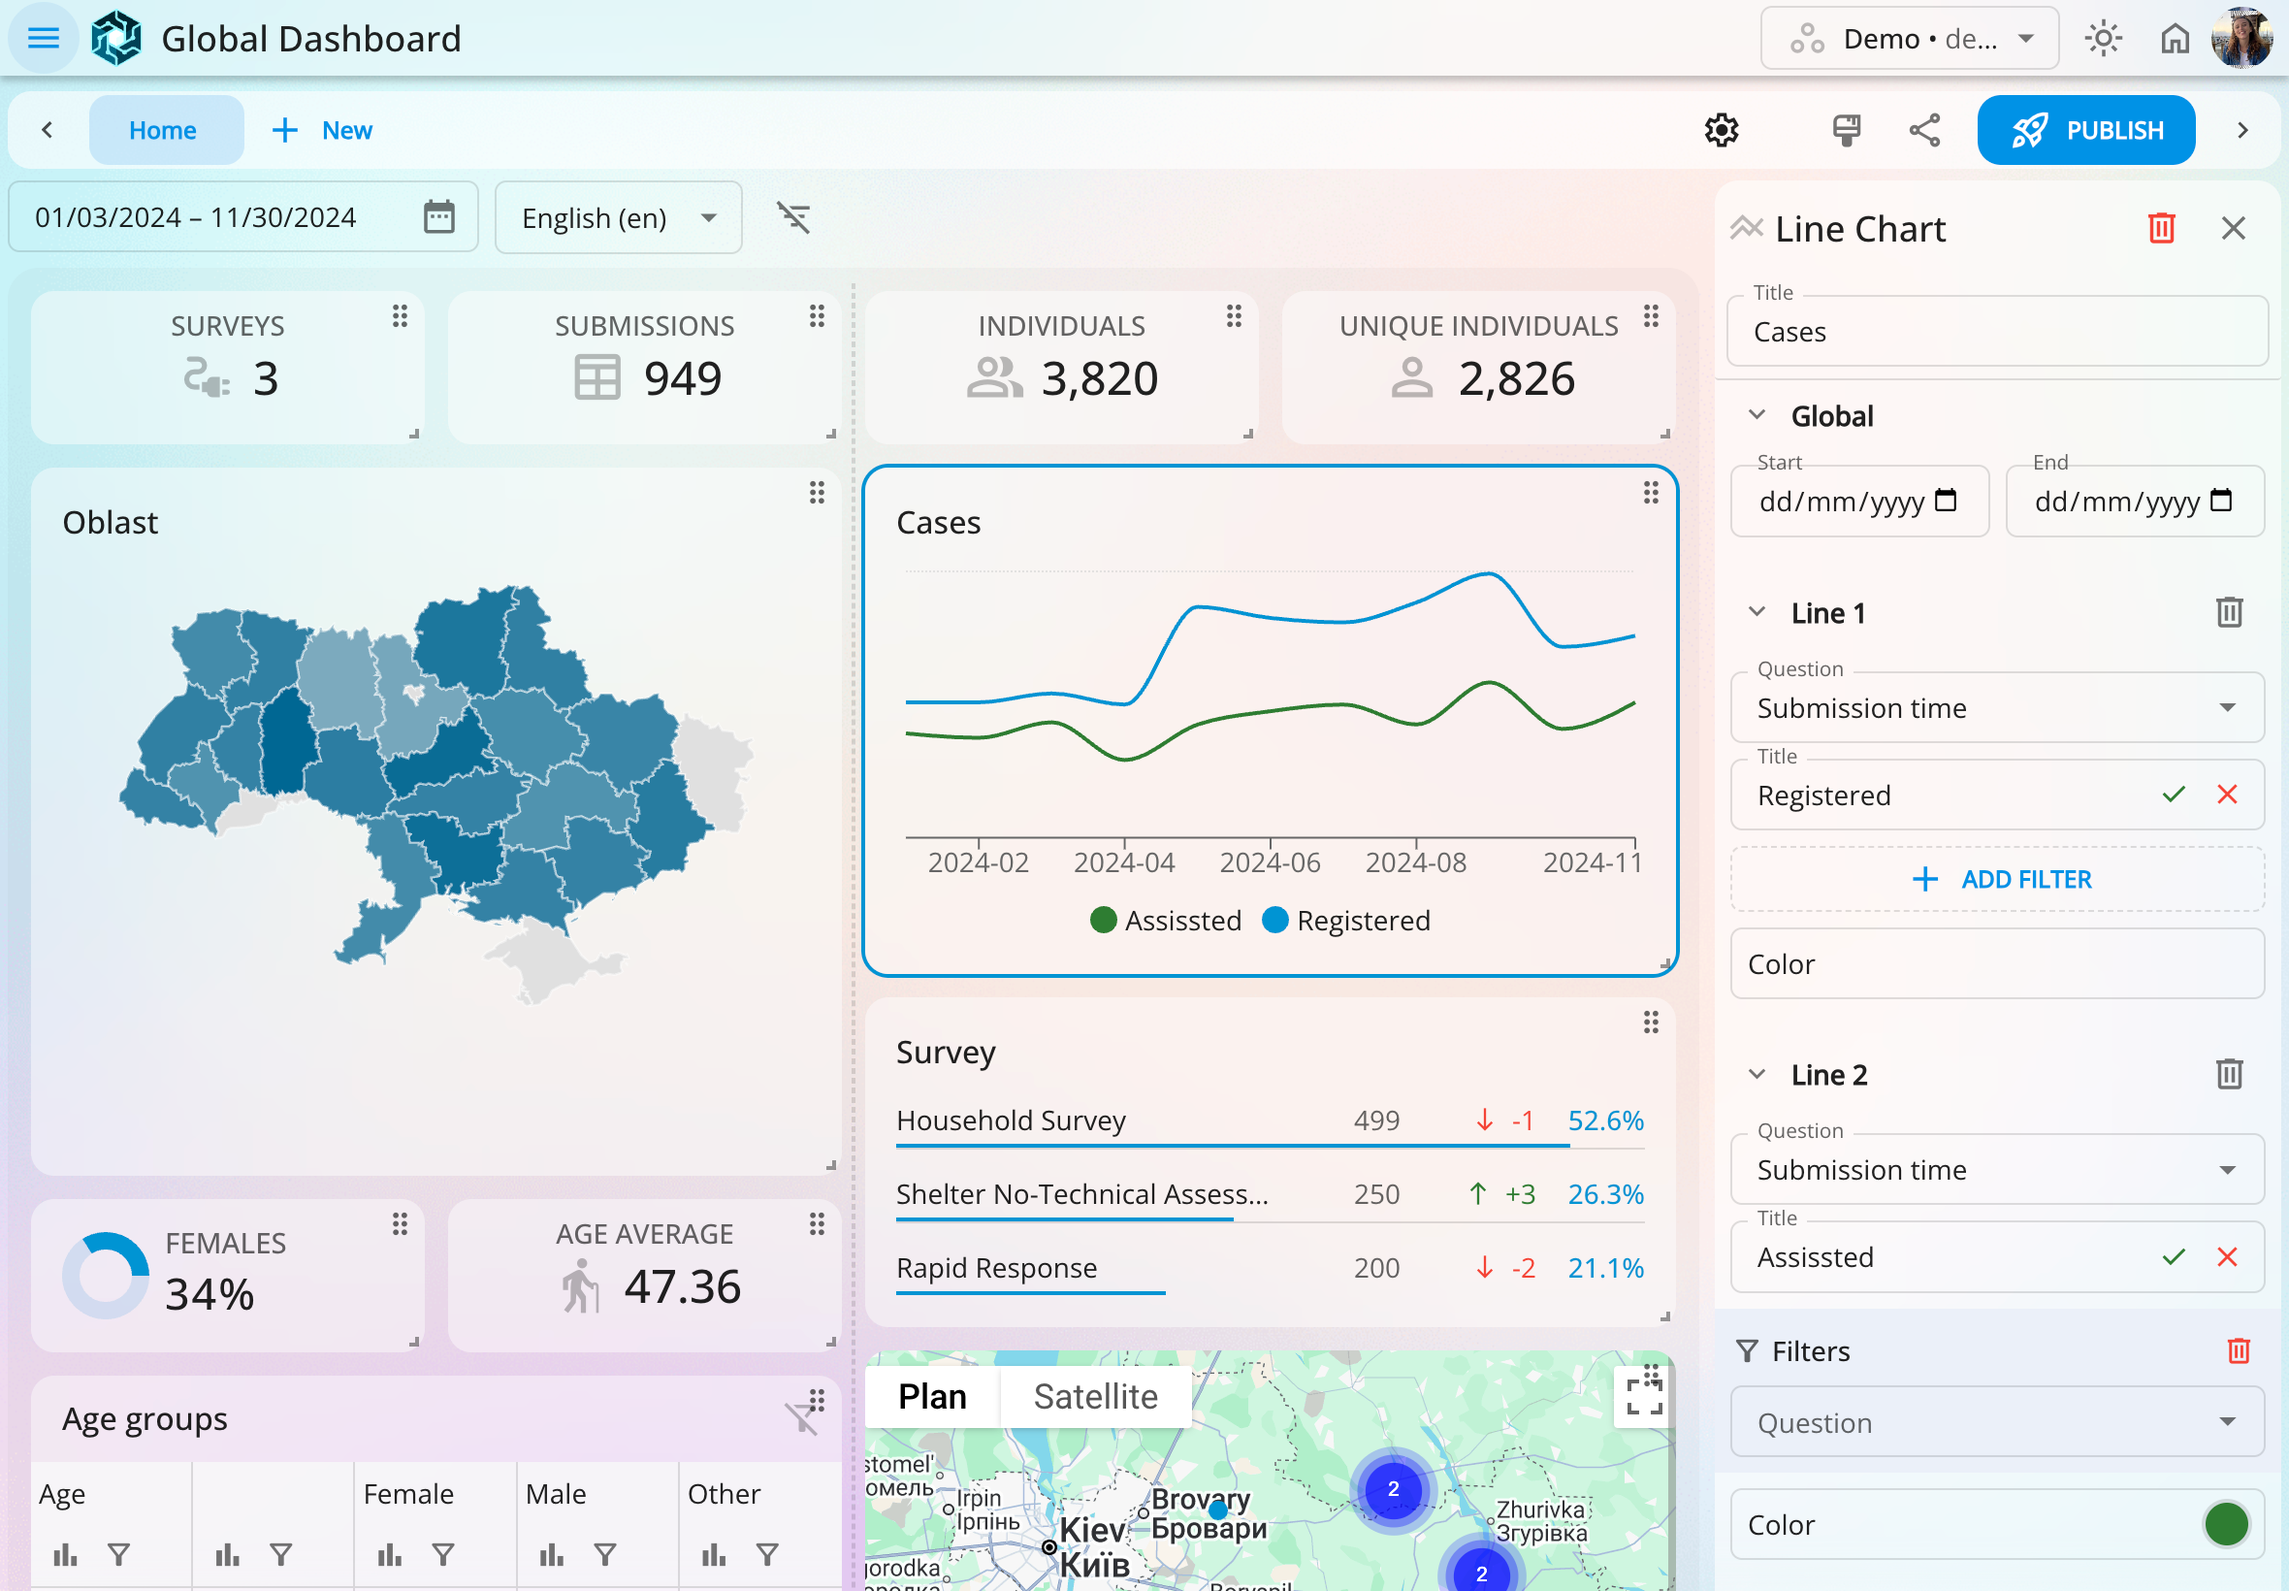
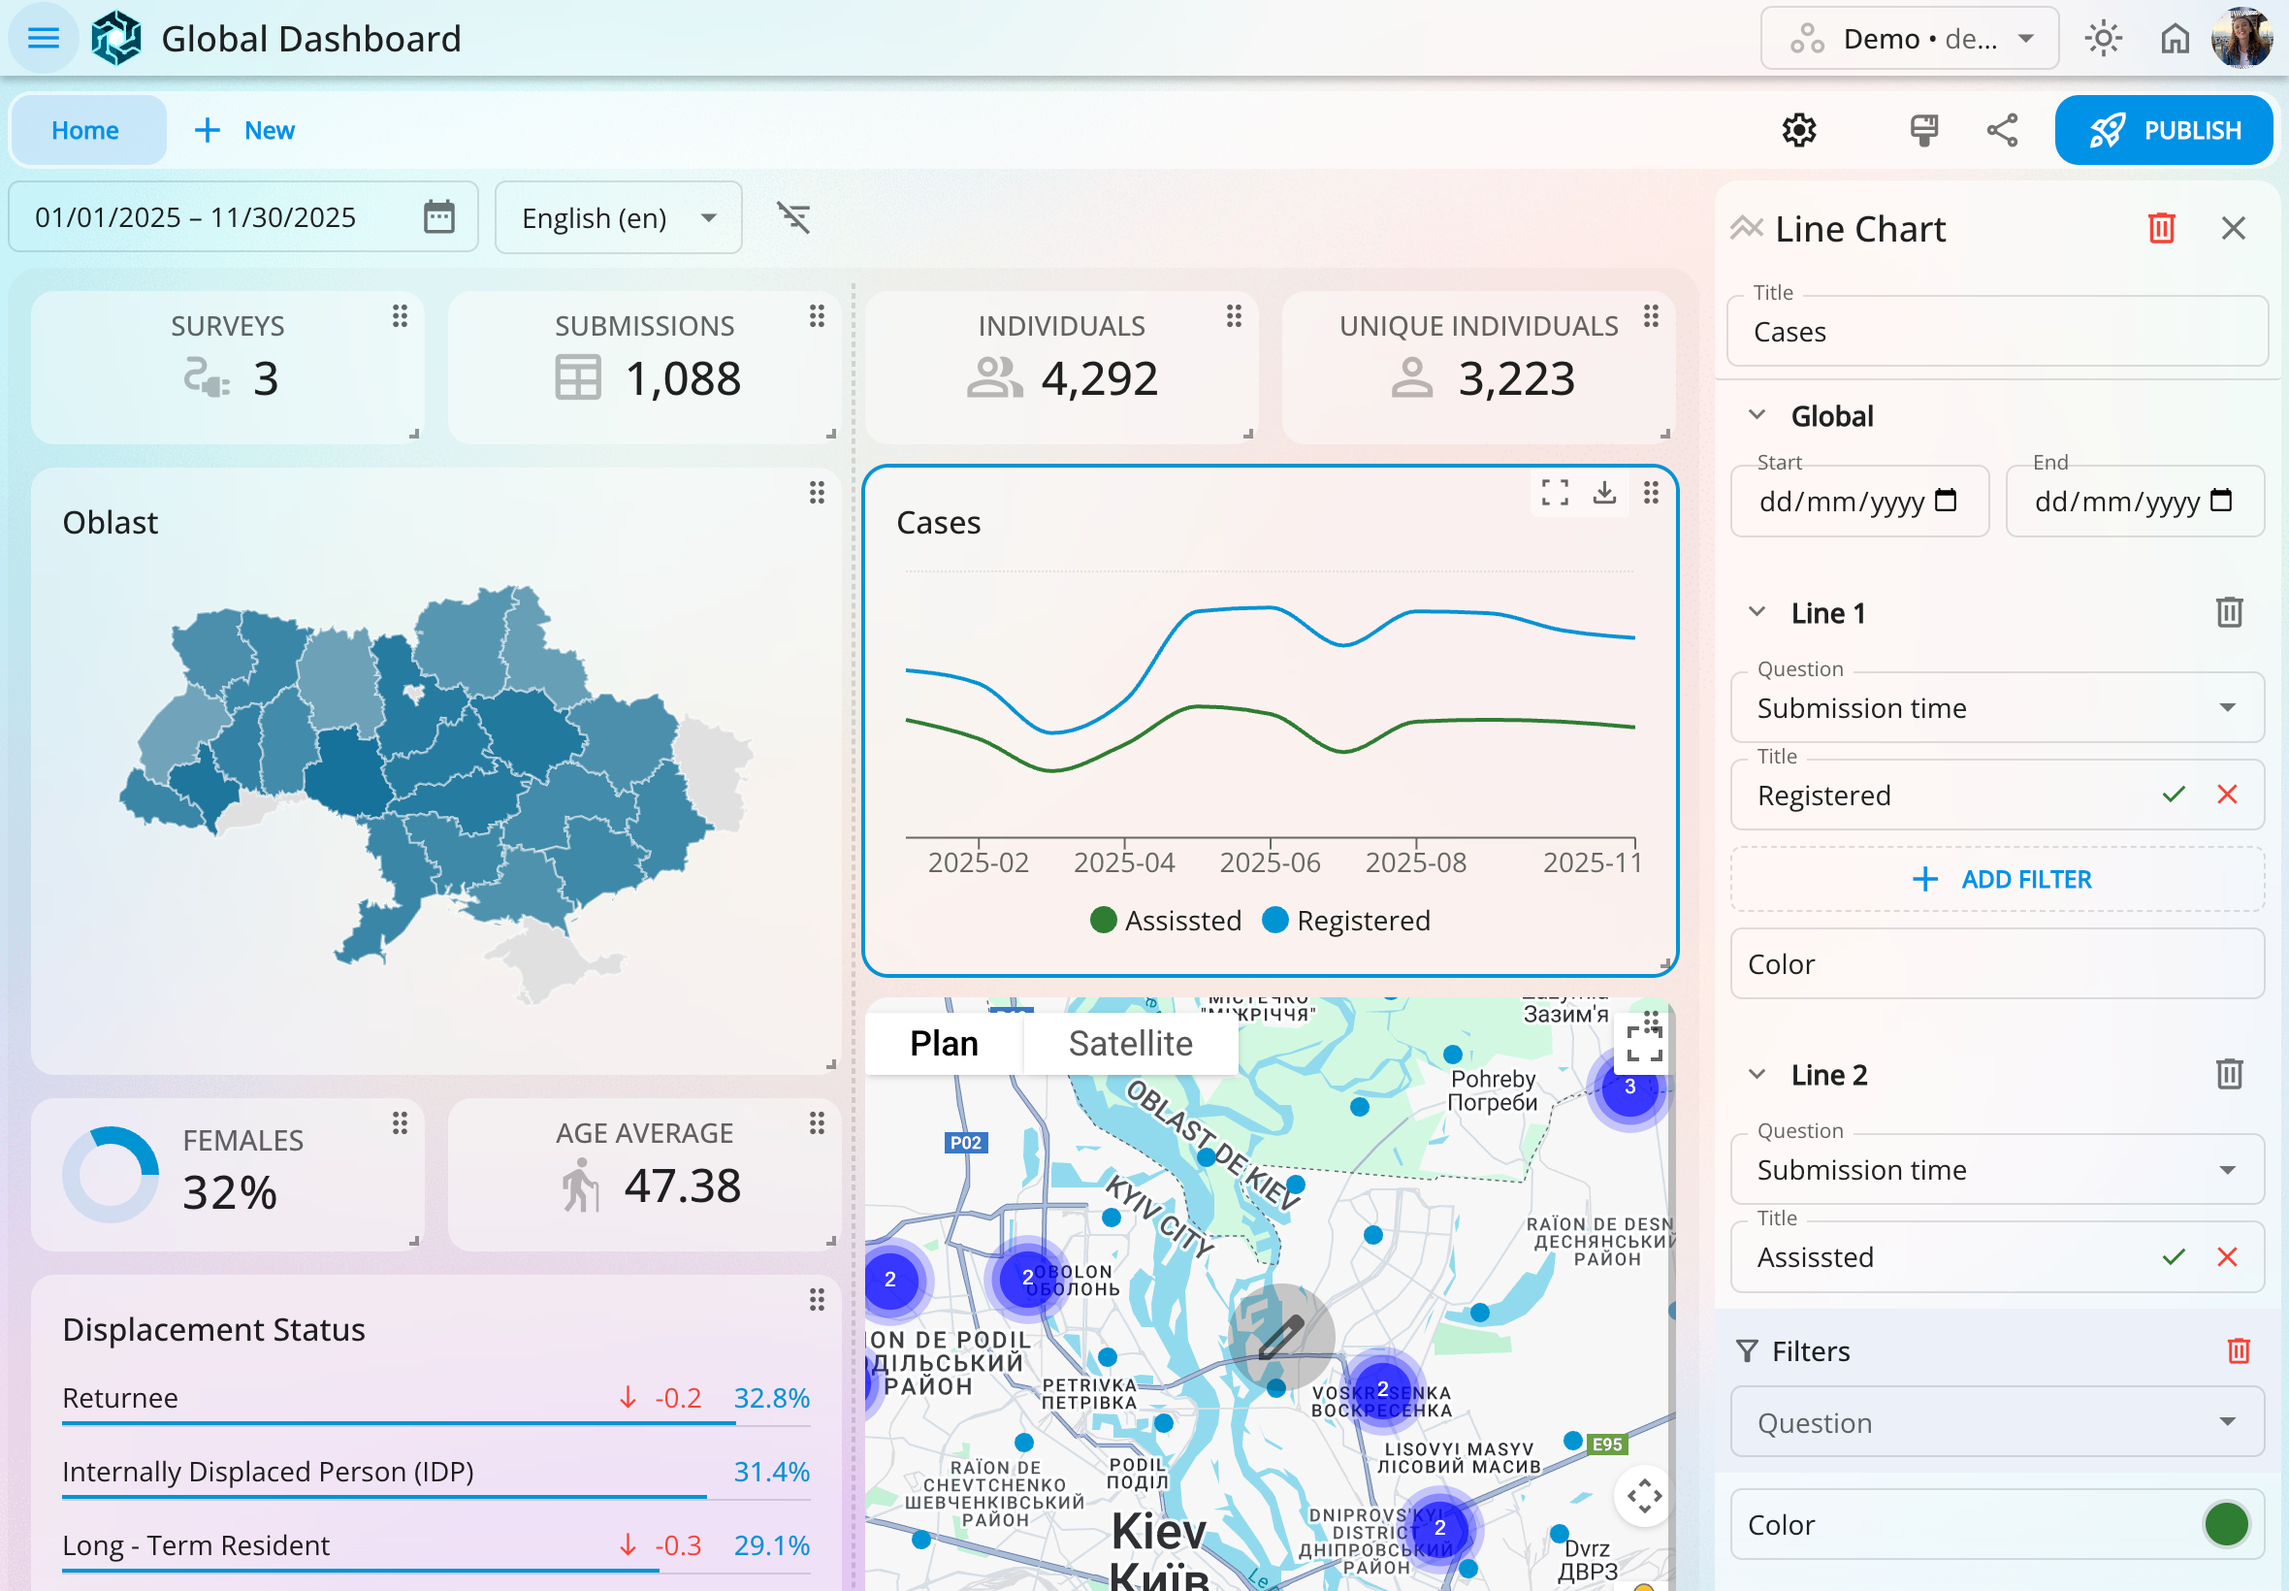
Layout

diff --git a/src/sections/Features/Features.tsx b/src/sections/Features/Features.tsx
@@ -43,13 +43,13 @@ export const Features = () => {
           gap: {xs: 1, sm: 2},
           pt: 4,
           pr: 2,
-          pb: 2,
+          pb: 4,
         }}>
           {Obj.entries(m.features.list).map(([key, _], i) => (
             <FeaturesPanel key={key} title={_.title} desc={_.desc} imageSrc={'/ss3/ss-' + key + '.png'} mirror={i % 2 === 0} />
           ))}
         </Box>
-        <Box sx={{display: 'flex', gap: 1, pb: 2, alignItems: 'center', justifyContent: 'center'}}>
+        <Box sx={{display: 'flex', gap: 1, pb: 4, alignItems: 'center', justifyContent: 'center'}}>
           <FeaturesScrollXBtn direction="left" />
           <FeaturesScrollXBtn direction="right" />
         </Box>

diff --git a/src/sections/Features/FeaturesPanel.tsx b/src/sections/Features/FeaturesPanel.tsx
@@ -46,15 +46,15 @@ export const FeaturesPanel = ({
           bottom: 0,
           right: 0,
           left: 0,
-          top: '40%',
+          top: '45%',
           background: `linear-gradient(to top, #131d2e 0%, rgba(0,0,0,0) 100% )`,
         }}></Box>
         <Image
           className={style.img}
           alt={title}
           src={imageSrc}
-          width={400}
-          height={500}
+          width={1180}
+          height={820}
         />
       </Box>
       <Box sx={{color: 'white'}}>
